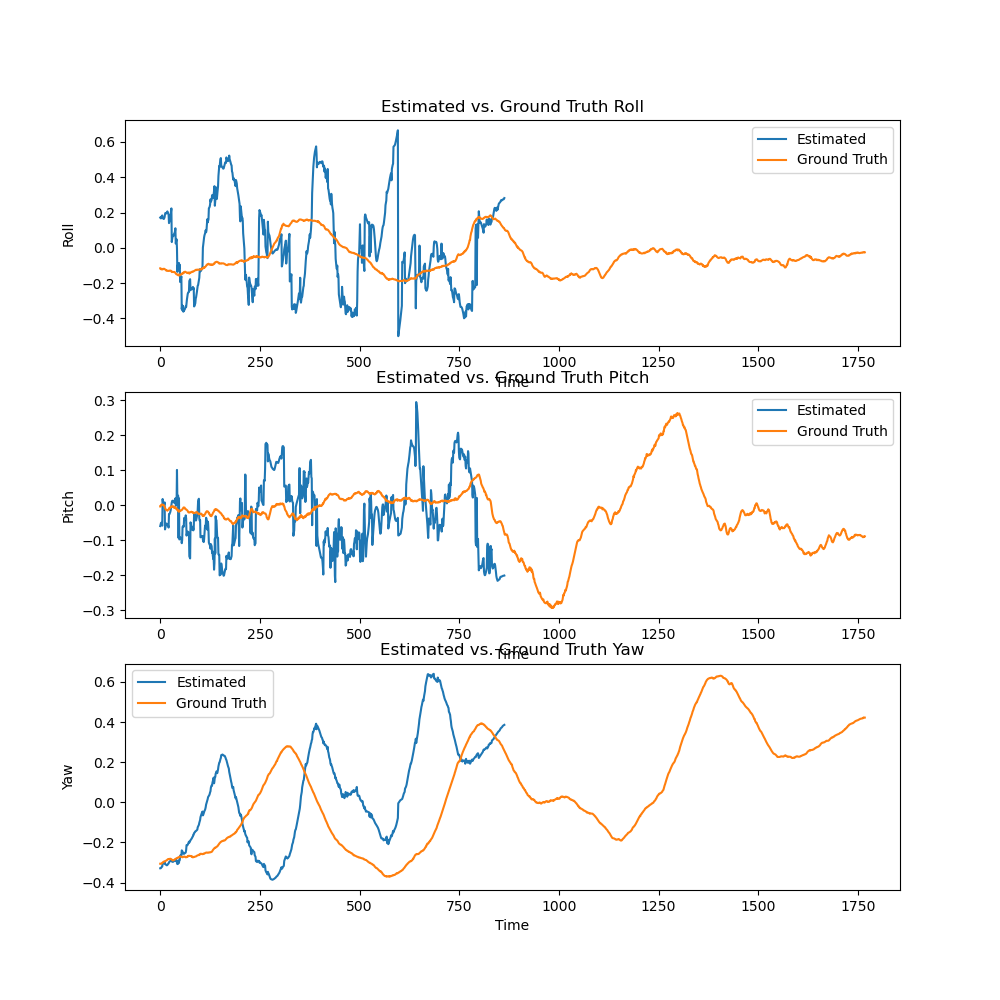
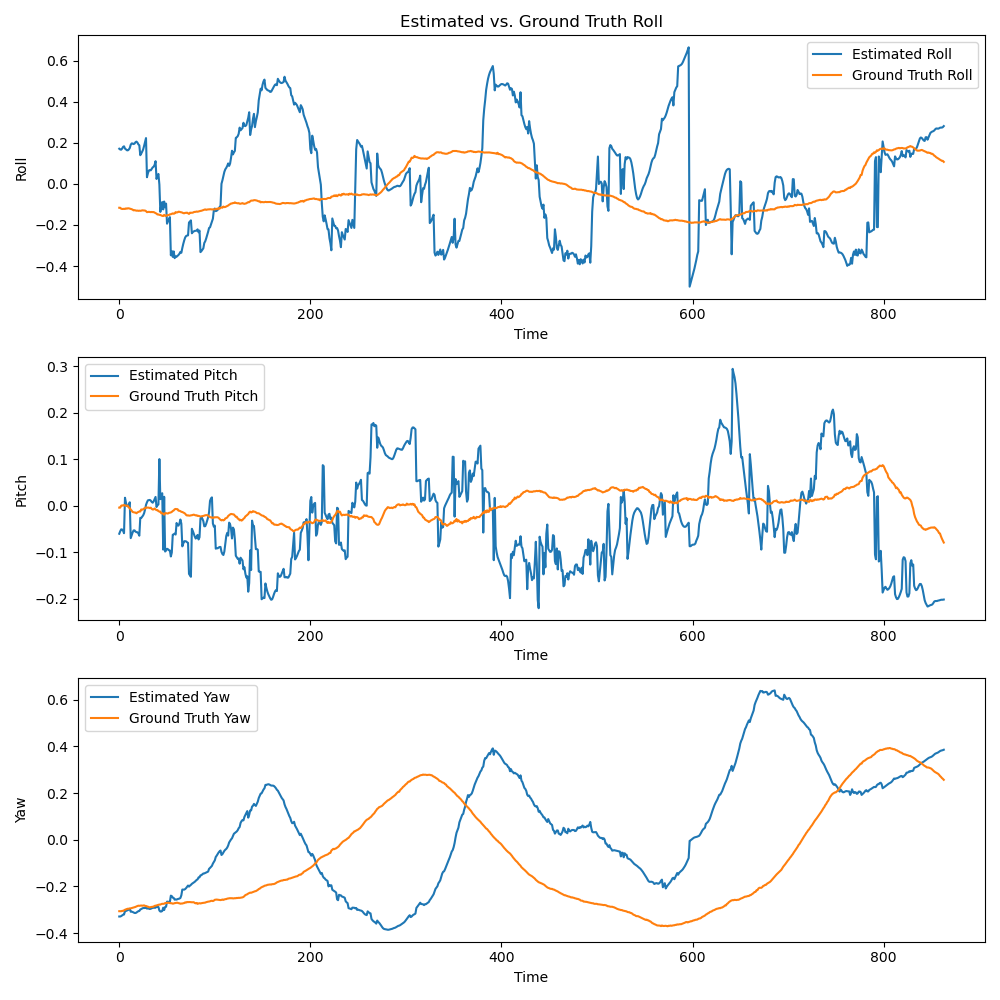
Correcting some minor errors in covariance estimation

diff --git a/Extended Kalman Filter/extract_pose_venky_trial.py b/Extended Kalman Filter/extract_pose_venky_trial.py
@@ -11,7 +11,6 @@ def load_data(filename):
 def estimate_pose(data, tag_coordinates):
     
     # Extract 3D coordinates of AprilTag corners from the map layout
-
     map_corners_3d = []
     for data_id in data['id']:
         for id, corners in tag_coordinates:
@@ -24,7 +23,6 @@ def estimate_pose(data, tag_coordinates):
                 
     # Extract 2D projections of AprilTag corners from the image data
     # the format of the p1 through p4 arrays are not[ [x1, y1], [x2, y2], [x3, y3]] like I presumed but its actually [ [x1, x2, x3], [y1, y2, y3]]
-
     data['p1'] = np.array(data['p1'])
 
     if len(data['p1']) == 1:
@@ -57,7 +55,6 @@ def estimate_pose(data, tag_coordinates):
     
     for i in range(len(data['p1'])):
         image_corners_2d.append(data['p4'][i])
-        # , data['p3'][i], data['p2'][i], data['p1'][i]])
         image_corners_2d.append(data['p3'][i])
         image_corners_2d.append(data['p2'][i])
         image_corners_2d.append(data['p1'][i])
@@ -69,15 +66,6 @@ def estimate_pose(data, tag_coordinates):
                           [0, 314.2218, 113.7838],
                           [0, 0, 1]])  # Replace with actual camera matrix
     dist_coeffs = np.array([-0.438607, 0.248625, 0.00072, -0.000476, -0.0911])     # Replace with actual distortion coefficients
-
-    # Define the 3D coordinates of the camera with respect to the IMU
-    tvec_imu_camera = np.array([-0.04, 0.0, -0.03])  # Translation vector from IMU to camera
-
-    # Define the rotation of the camera with respect to the IMU (assuming yaw = pi/4)
-    yaw = np.pi / 4
-    rot_matrix_imu_camera = np.array([[np.cos(yaw), -np.sin(yaw), 0],
-                                    [np.sin(yaw), np.cos(yaw), 0],
-                                    [0, 0, 1]])
     
     # Solve the PnP problem
     success, rvec, tvec = cv2.solvePnP(map_corners_3d, image_corners_2d, camera_matrix, dist_coeffs)
@@ -85,22 +73,57 @@ def estimate_pose(data, tag_coordinates):
     if not success:
         raise RuntimeError("PnP solver failed to converge")
     
-    #Transform camera coordinates to IMU coordinates
-    rot_matrix, _ = cv2.Rodrigues(rvec)
-    rot_matrix_imu_camera = rot_matrix@rot_matrix_imu_camera
-
-    # Extract Euler angles from rotation matrix
-    roll = np.arctan2(rot_matrix_imu_camera[2, 1], rot_matrix_imu_camera[2, 2])
-    pitch = np.arctan2(-rot_matrix_imu_camera[2, 0], np.sqrt(rot_matrix_imu_camera[2, 1]**2 + rot_matrix_imu_camera[2, 2]**2))
-    yaw = np.arctan2(rot_matrix_imu_camera[1, 0], rot_matrix_imu_camera[0, 0])
-
-    #Reshape tvec_imu_camera to (3, 1)
-    tvec_imu_camera = tvec_imu_camera.reshape(3, 1)
-
-    tvec = -rot_matrix.T @ tvec + -rot_matrix.T@ tvec_imu_camera
+    # Write a rotation matrix for rotation about z-axis
+    Rz = np.array([[np.cos(np.pi/4), -np.sin(np.pi/4), 0], 
+                  [np.sin(np.pi/4), np.cos(np.pi/4), 0], 
+                  [0, 0, 1],
+                  ])
     
-    #return tvec_imu_camera.flatten(), np.array([roll, pitch, yaw])
-    return tvec.reshape(3,), np.array([roll, pitch, yaw])
+    # Write a rotation matrix for rotation about x-axis by 180 degrees
+    Rx = np.array([[1, 0, 0], 
+                  [0, -1, 0], 
+                  [0, 0, -1],
+                  ])
+    
+    rotation_matrix = np.dot(Rz, Rx)
+
+    # Combine rotation matrix and translation vector into a single pose matrix
+    cam_to_drone = np.array(
+        [[rotation_matrix[0, 0], rotation_matrix[0, 1], rotation_matrix[0, 2], -0.04],
+            [rotation_matrix[1, 0], rotation_matrix[1, 1], rotation_matrix[1, 2], 0],
+            [rotation_matrix[2, 0], rotation_matrix[2, 1], rotation_matrix[2, 2], -0.03],
+            [0, 0, 0, 1]]
+    )
+
+    orientation = cv2.Rodrigues(rvec)[0]
+
+    cam_to_world = np.array([np.concatenate((orientation[0],tvec[0])),
+                             np.concatenate((orientation[1],tvec[1])),
+                            np.concatenate((orientation[2],tvec[2])),
+                            [0, 0, 0, 1]])
+    
+    drone_to_world = np.dot(np.linalg.inv(cam_to_world), cam_to_drone)
+
+    position = drone_to_world[:3, 3]
+
+    orientation = rotation_matrix_to_euler_angles(drone_to_world[:3, :3])
+
+    return position, orientation
+
+def rotation_matrix_to_euler_angles(rotation_matrix):
+    """
+    rotation_matrix_to_euler_angles converts a 3x3 rotation matrix to
+    a tuple of Euler angles in XZY rotation order.
+    """
+    r11, r12, r13 = rotation_matrix[0]
+    r21, r22, r23 = rotation_matrix[1]
+    r31, r32, r33 = rotation_matrix[2]
+
+    yaw = np.arctan(-r12 / r22)
+    roll = np.arctan(r32 * np.cos(yaw) / r22)
+    pitch = np.arctan(-r31 / r33)
+
+    return yaw, pitch, roll
 
 def world_corners():
     tag_size = 0.152  # meters
@@ -213,30 +236,38 @@ ax.set_zlabel('Z')
 ax.set_title('Drone Trajectory')
 ax.legend()
     
-#plot trajectory as dots
-# fig = plt.figure(figsize=(10, 8))
-# ax = fig.add_subplot(111, projection='3d')
-# ax.scatter(estimated_positions[:, 0], estimated_positions[:, 1], estimated_positions[:, 2], label='Estimated Trajectory')
-# ax.scatter(ground_truth_positions[:, 0], ground_truth_positions[:, 1], ground_truth_positions[:, 2], label='Ground Truth Trajectory')
-# ax.set_xlabel('X')
-# ax.set_ylabel('Y')
-# ax.set_zlabel('Z')
-# ax.set_title('Drone Trajectory')
-# ax.legend()
+#Plot the estimated and ground truth orientations with the same length of data
+fig, ax = plt.subplots(3, 1, figsize=(10, 10))
+ax[0].plot(estimated_orientations[:, 0], label='Estimated Roll')
+ax[0].plot(ground_truth_orientations[:, 0], label='Ground Truth Roll')
+ax[0].set_xlabel('Time')
+ax[0].set_ylabel('Roll')
+ax[0].set_title('Estimated vs. Ground Truth Roll')
+ax[0].legend()
+ax[1].plot(estimated_orientations[:, 1], label='Estimated Pitch')
+ax[1].plot(ground_truth_orientations[:, 1], label='Ground Truth Pitch')
+ax[1].set_xlabel('Time')
+ax[1].set_ylabel('Pitch')
+ax[1].legend()
+ax[2].plot(estimated_orientations[:, 2], label='Estimated Yaw')
+ax[2].plot(ground_truth_orientations[:, 2], label='Ground Truth Yaw')
+ax[2].set_xlabel('Time')
+ax[2].set_ylabel('Yaw')
+ax[2].legend()
 
 #Plot orientation
-fig, axs = plt.subplots(3, 1, figsize=(10, 12))
-axs[0].plot(estimated_orientations[:, 0], label='Estimated Roll')
-axs[0].plot(ground_truth_orientations[:, 0], label='Ground Truth Roll')
-axs[0].set_ylabel('Roll (rad)')
-axs[1].plot(estimated_orientations[:, 1], label='Estimated Pitch')
-axs[1].plot(ground_truth_orientations[:, 1], label='Ground Truth Pitch')
-axs[1].set_ylabel('Pitch (rad)')
-axs[2].plot(estimated_orientations[:, 2], label='Estimated Yaw')
-axs[2].plot(ground_truth_orientations[:, 2], label='Ground Truth Yaw')
-axs[2].set_ylabel('Yaw (rad)')
-for ax in axs:
-    ax.legend()
+# fig, axs = plt.subplots(3, 1, figsize=(10, 12))
+# axs[0].plot(estimated_orientations[:, 0], label='Estimated Roll')
+# axs[0].plot(ground_truth_orientations[:, 0], label='Ground Truth Roll')
+# axs[0].set_ylabel('Roll (rad)')
+# axs[1].plot(estimated_orientations[:, 1], label='Estimated Pitch')
+# axs[1].plot(ground_truth_orientations[:, 1], label='Ground Truth Pitch')
+# axs[1].set_ylabel('Pitch (rad)')
+# axs[2].plot(estimated_orientations[:, 2], label='Estimated Yaw')
+# axs[2].plot(ground_truth_orientations[:, 2], label='Ground Truth Yaw')
+# axs[2].set_ylabel('Yaw (rad)')
+# for ax in axs:
+#     ax.legend()
 plt.tight_layout()
 plt.show()
 

diff --git a/Particle Filter/particle_filter.py b/Particle Filter/particle_filter.py
@@ -1,0 +1,151 @@
+import numpy as np
+import scipy.io
+from extract_pose_final import estimate_pose, world_corners
+import matplotlib.pyplot as plt
+
+# Function to load data from .mat file
+def load_data(filename):
+    return scipy.io.loadmat(filename, simplify_cells=True)
+
+class ParticleFilter:
+    def __init__(self, num_particles, state_dim):
+        self.num_particles = num_particles
+        self.state_dim = state_dim
+        self.particles = np.zeros((num_particles, state_dim))
+        self.weights = np.ones(num_particles) / num_particles
+
+    def predict(self, process_noise_covariance):
+        noise = np.random.multivariate_normal(np.zeros(self.state_dim), process_noise_covariance, self.num_particles)
+        self.particles += noise
+
+    def update(self, measurements, measurement_noise_covariance, measurement_function):
+        for i in range(self.num_particles):
+            predicted_measurement = measurement_function(self.particles[i])
+            measurement_residual = measurements - predicted_measurement
+            measurement_likelihood = self.calculate_measurement_likelihood(measurement_residual, measurement_noise_covariance)
+            self.weights[i] *= measurement_likelihood
+
+        self.weights /= np.sum(self.weights)
+
+    def resample(self):
+        indices = np.random.choice(self.num_particles, self.num_particles, p=self.weights)
+        self.particles = self.particles[indices]
+        self.weights.fill(1.0 / self.num_particles)
+
+    def calculate_measurement_likelihood(self, residual, covariance):
+        normalization_constant = np.sqrt((2 * np.pi) ** self.state_dim * np.linalg.det(covariance))
+        exponent = -0.5 * np.dot(np.dot(residual.T, np.linalg.inv(covariance)), residual)
+        likelihood = np.exp(exponent) / normalization_constant
+        return likelihood
+
+    def estimate_state(self):
+        state_estimate = np.average(self.particles, axis=0, weights=self.weights)
+        return state_estimate
+    
+    def run(self, process_noise_covariance, measurements, measurement_noise_covariance, measurement_function, num_iterations):
+        for _ in range(num_iterations):
+            self.predict(process_noise_covariance)
+            self.update(measurements, measurement_noise_covariance, measurement_function)
+            self.resample()
+        return self.estimate_state()
+    
+def measurement_function(state):
+    return state
+        
+def main():
+    num_particles = 100
+    state_dim = 15
+    process_noise_covariance = np.eye(state_dim) * 0.1
+    measurement_noise_covariance = np.eye(state_dim) * 0.1
+    
+    # Call the function with the filename of the .mat file containing the data
+    # Load data
+    filename = 'data/studentdata1.mat'
+    data = load_data(filename)
+
+    # Loop through the data and print the tag IDs
+    for i in range(len(data['data'])):
+        # If the tag id is an integer, convert it to a list
+        if isinstance(data['data'][i]['id'], int):
+            data['data'][i]['id'] = [data['data'][i]['id']]
+        
+        # Check if p1, p2, p3, p4 are 1D and convert them to 2D if they are
+        for point in ['p1', 'p2', 'p3', 'p4']:
+            if len(data['data'][i][point].shape) == 1:
+                data['data'][i][point] = data['data'][i][point].reshape(1, -1)
+
+    data['vicon'] = np.array(data['vicon'])
+    #  Transpose it
+    data['vicon'] = data['vicon'].T
+
+    R = np.array([
+    [7.09701409e-03, 2.66809900e-05, 1.73906943e-03, 4.49014777e-04, 3.66195490e-03, 8.76154421e-04],
+    [2.66809900e-05, 4.70388499e-03, -1.33432420e-03, -3.46505064e-03, 1.07454548e-03, -1.69184839e-04],
+    [1.73906943e-03, -1.33432420e-03, 9.00885499e-03, 1.80220246e-03, 3.27846190e-03, -1.11786368e-03],
+    [4.49014777e-04, -3.46505064e-03, 1.80220246e-03, 5.27060654e-03, 1.01361187e-03, -5.86487142e-04],
+    [3.66195490e-03, 1.07454548e-03, 3.27846190e-03, 1.01361187e-03, 7.24994152e-03, -1.36454993e-03],
+    [8.76154421e-04, -1.69184839e-04, -1.11786368e-03, -5.86487142e-04, -1.36454993e-03, 1.21162646e-03]
+    ])
+
+    # Initialize particle filter
+    particle_filter = ParticleFilter(num_particles, state_dim)
+
+    estimated_positions = []
+    estimated_orientations = []
+    ground_truth_positions = []
+    ground_truth_orientations = []
+
+    tag_coordinates = world_corners()
+
+    # Loop through data and store ground truth position and orientation from data['vicon'] and data['time']
+    for i in range(len(data['vicon'])):
+        # Extract ground truth position and orientation from data
+        ground_truth_position = data['vicon'][i][:3]
+        ground_truth_orientation = data['vicon'][i][3:6]
+        
+        # Append ground truth data to lists
+        ground_truth_positions.append(ground_truth_position)
+        ground_truth_orientations.append(ground_truth_orientation)
+
+    # Loop through each data point and estimate the pose
+    for i in range(len(data['data'])):
+        # If the tag ID has no elements in the array, skip it
+        if len(data['data'][i]['id']) == 0:
+            continue
+        position, orientation = estimate_pose(data['data'][i], tag_coordinates)
+        # Store the position and orientation for visualization or further processing
+        # Extract ground truth position and orientation from data
+
+        # Append estimated and ground truth data to lists
+        estimated_positions.append(position)
+
+        estimated_orientations.append(orientation)
+    
+        measurements = np.concatenate((position, orientation))
+        #particle_filter = ParticleFilter(num_particles, state_dim)
+        state_estimate = particle_filter.run(process_noise_covariance, measurements, measurement_noise_covariance, measurement_function, num_iterations=10)
+        print("Estimated State:", state_estimate)   
+        # Put the estimated state into the array
+        estimated_positions.append(state_estimate[:3])
+        estimated_orientations.append(state_estimate[3:])
+
+    # Convert lists to numpy arrays
+    estimated_positions = np.array(estimated_positions)
+    ground_truth_positions = np.array(ground_truth_positions)
+    estimated_orientations = np.array(estimated_orientations)
+    ground_truth_orientations = np.array(ground_truth_orientations)
+
+    # Plot the estimated and ground truth positions
+    fig = plt.figure(figsize=(10, 8))
+    ax = fig.add_subplot(111, projection='3d')
+    ax.plot(estimated_positions[:, 0], estimated_positions[:, 1], estimated_positions[:, 2], label='Estimated')
+    ax.plot(ground_truth_positions[:, 0], ground_truth_positions[:, 1], ground_truth_positions[:, 2], label='Ground Truth')
+    ax.set_xlabel('X')
+    ax.set_ylabel('Y')
+    ax.set_zlabel('Z')
+    ax.set_title('Drone Trajectory')
+    ax.legend()
+    plt.show()
+
+if __name__ == "__main__":
+    main()

diff --git a/Extended Kalman Filter/estimate_covariance.py b/Extended Kalman Filter/estimate_covariance.py
@@ -1,6 +1,6 @@
 import numpy as np
 import scipy.io
-from extract_pose_venky import estimate_pose, world_corners
+from extract_pose_final import estimate_pose, world_corners
 
 # Function to load data from .mat file
 def load_data(filename):
@@ -42,33 +42,39 @@ def estimate_covariances(data):
     return R
 
 def main():
-    # Call the function with the filename of the .mat file containing the data
-    # Load data
-    filename = 'data/studentdata0.mat'
-    data = load_data(filename)
+    R_matrices = []
+    #Loop through all the datasets
+    for i in range(8):
+        # Call the function with the filename of the .mat file containing the data
+        # Load data
+        filename = 'data/studentdata{}.mat'.format(i)
+        data = load_data(filename)
 
-    #Loop through the data and print the tag IDs
-    for i in range(len(data['data'])):
-        # If the tag id is an integer, convert it to a list
-        if isinstance(data['data'][i]['id'], int):
-            data['data'][i]['id'] = [data['data'][i]['id']]
+        #Loop through the data and print the tag IDs
+        for i in range(len(data['data'])):
+            # If the tag id is an integer, convert it to a list
+            if isinstance(data['data'][i]['id'], int):
+                data['data'][i]['id'] = [data['data'][i]['id']]
+            
+            # Check if p1, p2, p3, p4 are 1D and convert them to 2D if they are
+            for point in ['p1', 'p2', 'p3', 'p4']:
+                if len(data['data'][i][point].shape) == 1:
+                    data['data'][i][point] = data['data'][i][point].reshape(1, -1)
+
+        data['vicon'] = np.array(data['vicon'])
+        #  Transpose it
+        data['vicon'] = data['vicon'].T
+
+        R = estimate_covariances(data)
+
+        #Store all the R matrices in a list
+        R_matrices.append(R)
+
+    # Calculate the average of the R matrices
+    R_avg = np.mean(R_matrices, axis=0)
+
+    print(R_avg)
         
-        # Check if p1, p2, p3, p4 are 1D and convert them to 2D if they are
-        for point in ['p1', 'p2', 'p3', 'p4']:
-            if len(data['data'][i][point].shape) == 1:
-                data['data'][i][point] = data['data'][i][point].reshape(1, -1)
-
-    data['vicon'] = np.array(data['vicon'])
-    #  Transpose it
-    data['vicon'] = data['vicon'].T
-
-    R = estimate_covariances(data)
-    print("Estimated Observation Model Covariance (R):\n", R)
-    eigen_values, eigen_vectors = np.linalg.eig(R)
-    print("Eigen Values")
-    print(eigen_values)
-    print("Eigen Vectors")
-    print(eigen_vectors)
 
 if __name__ == "__main__":
     main()
